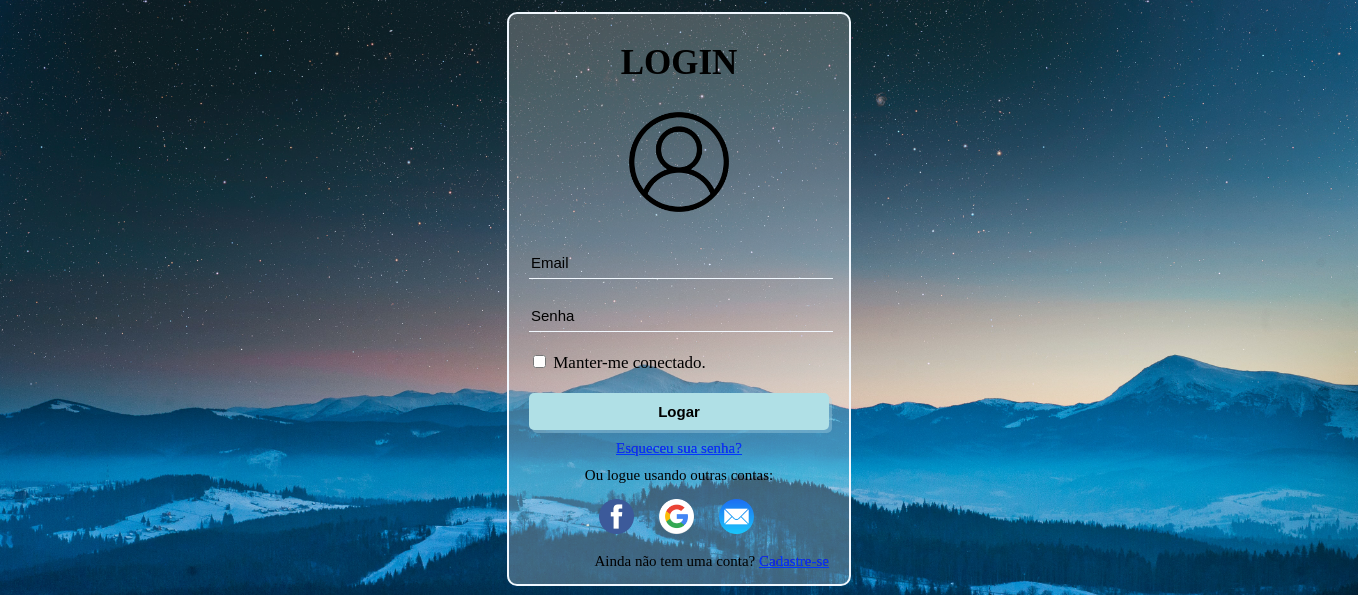
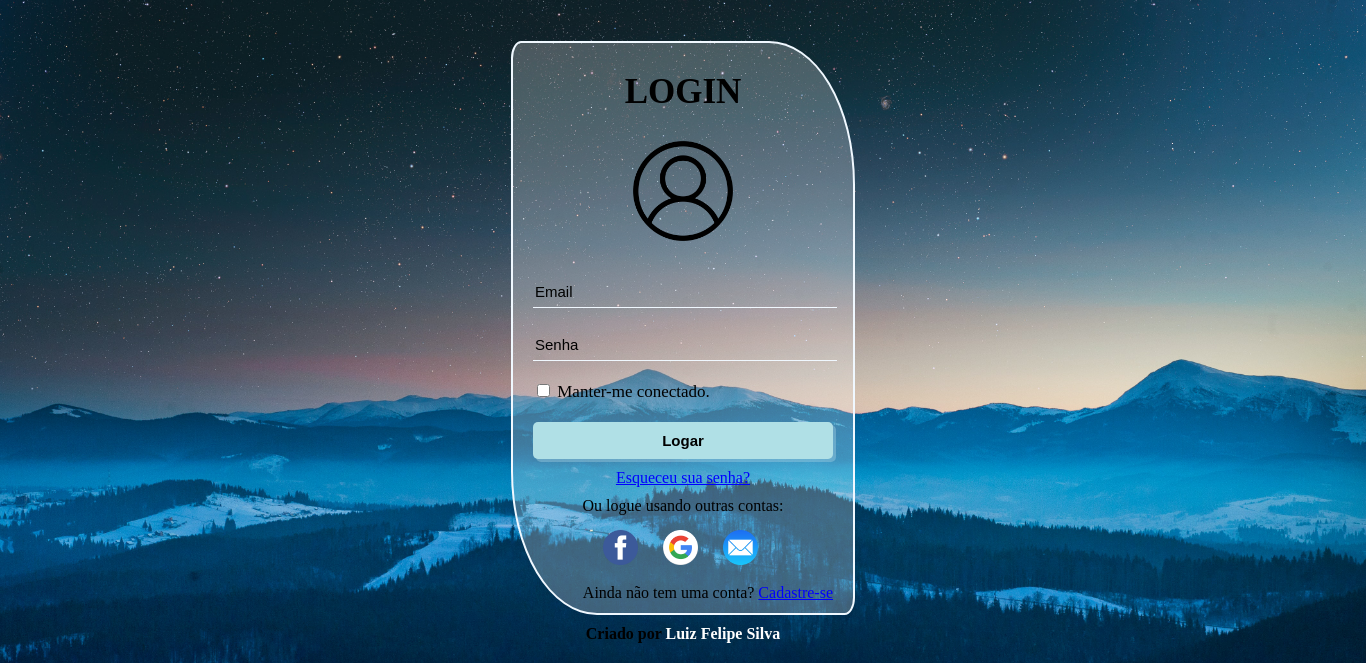
update

diff --git a/css/style.css b/css/style.css
@@ -21,7 +21,7 @@ body {
 	padding-left: 20px;
 	padding-right: 20px;
 	padding-bottom: 20px;
-	border-radius: 10px;
+	border-radius: 3% 25%;
 	border: 2px solid #F0F8FF;
 	width: 300px;
 	height: 550px;
@@ -36,7 +36,7 @@ body {
 	justify-content: center;
 	text-align: left;
 	position: relative;
-	padding-top: 1.5vw;
+	padding-top: 3vw;
 }
 
 .login {
@@ -150,8 +150,7 @@ cadastro a {
 	RESPONSIVIDADE PARA SMARTHPHONE↴
 */
 
-@media (max-width: 750px) {
-
+@media (max-width: 425px) {
 	/* 
 		FUNDO ↴
 	*/
@@ -168,8 +167,33 @@ cadastro a {
 		height: 555px;
 	}
 	.divisor {
-		padding-top: 20vw;
+		padding-top: 15vh;
 	}
-	
 }
+
+/*
+	RESPONSIVIDADE PARA TABLET ↴
+*/
+
+@media (min-width: 426px) and (max-width: 768px) {
+	/*
+		FUNDO ↴
+	*/
+
+	.wallpaper {
+		height: 100%;
+	}
+
+	/* 
+		ÁREA LOGIN ↴
+	*/
+
+	.fundo {
+		height: 555px;
+	}
+	.divisor {
+		padding-top: 20vh;
+	}
+}
+
 
